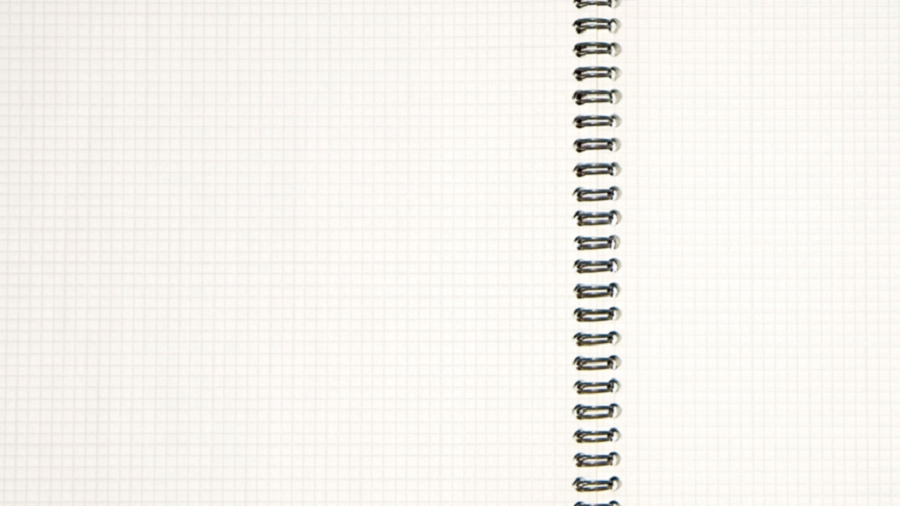
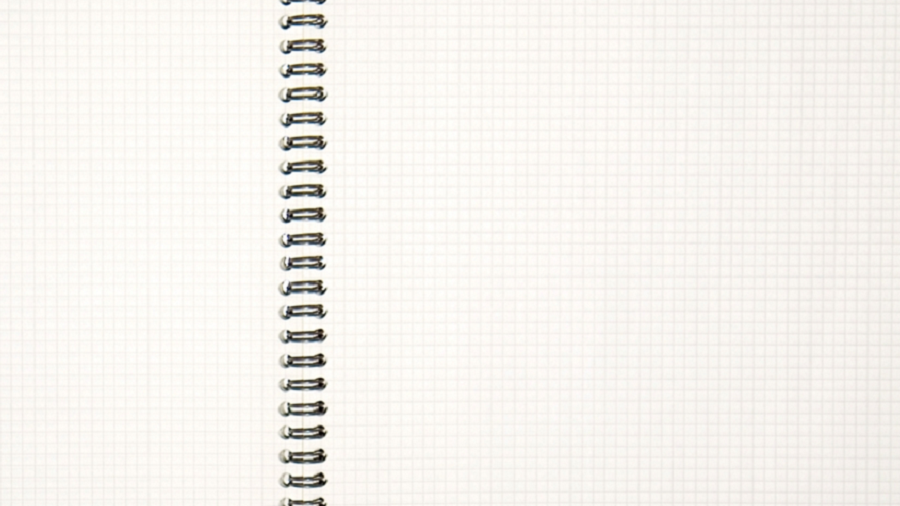
Changed the structure and layout

Changed region(s): [[0.6222, 0.0, 0.7156, 1.0], [0.3111, 0.0, 0.3733, 1.0]]

diff --git a/css/styles.css b/css/styles.css
@@ -10,7 +10,7 @@ body h1,h2,h3{
 	padding:0;
 }
 
-div#main-content{
+div#all-content{
 	width:920px;
 	margin:auto;
 }
@@ -51,29 +51,30 @@ div#post-content{
 
 div#post-content div#side-content{
     float: left;
-    margin-left: 65px;
     min-height: 500px;
     width: 250px;
+	margin-left: 15px;
 }
 div#post-content div#main-content{
     float: left;
     margin: 0 10px;
     min-height: 500px;
     width: 550px;
+	margin-left: 75px;
 }
 
-div#post-content div#main-content div#main-content-header{
+div#post-content div#main-content div.main-content-header{
     color: #444;
     float: left;
     height: 85px;
 }
 
-div#post-content div#main-content div#main-content-header span.align{
+div#post-content div#main-content div.main-content-header span.align{
    float: left;
    margin:10px;
 }
 
-div#post-content div#main-content div#main-content-header span.main-underline-header{
+div#post-content div#main-content div.main-content-header .main-underline-header{
     background-image: url("../images/underline.png");
     background-repeat: repeat-x;
     float: left;
@@ -88,12 +89,12 @@ div#post-content div#main-content div#main-content-text{
 	float:left;
 }
 
-div#post-content div#side-content div#side-content-header span.align{
+div#post-content div#side-content div.side-content-header span.align{
    float: left;
    margin:10px;
 }
 
-div#post-content div#side-content div#side-content-header span.side-underline-header{
+div#post-content div#side-content div.side-content-header span.side-underline-header{
     background-image: url("../images/underline.png");
     background-repeat: repeat-x;
     float: left;
@@ -101,7 +102,7 @@ div#post-content div#side-content div#side-content-header span.side-underline-he
     width: 250px;
 }
 
-div#post-content div#side-content div#side-content-header{
+div#post-content div#side-content div.side-content-header{
     color: #444;
     float: left;
     height: 85px;
